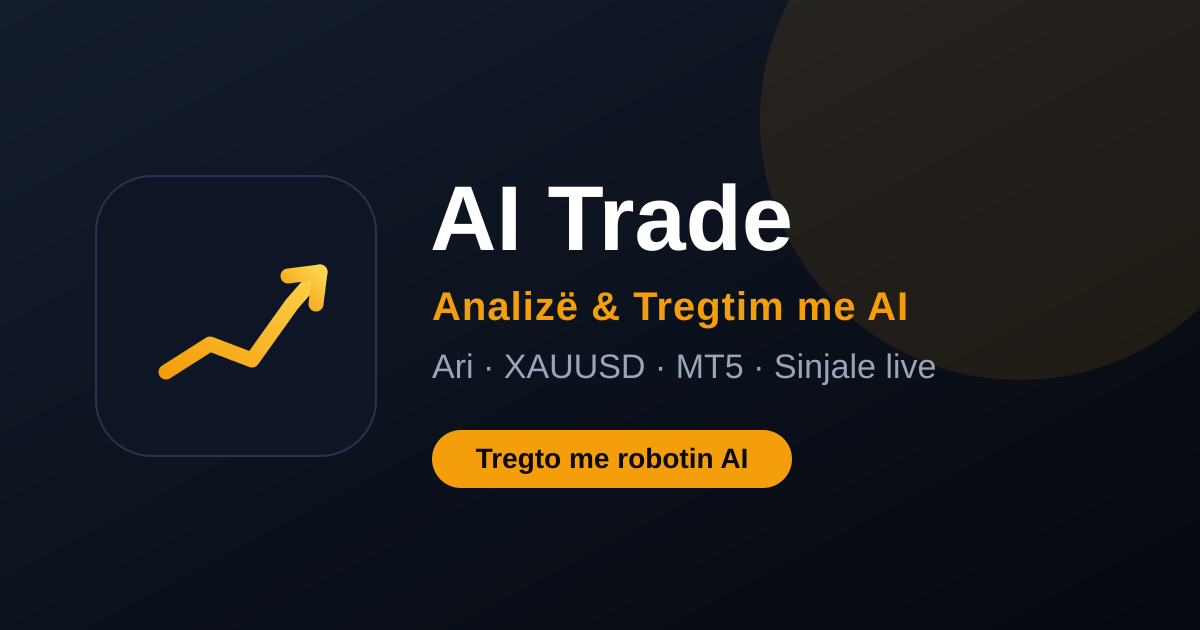
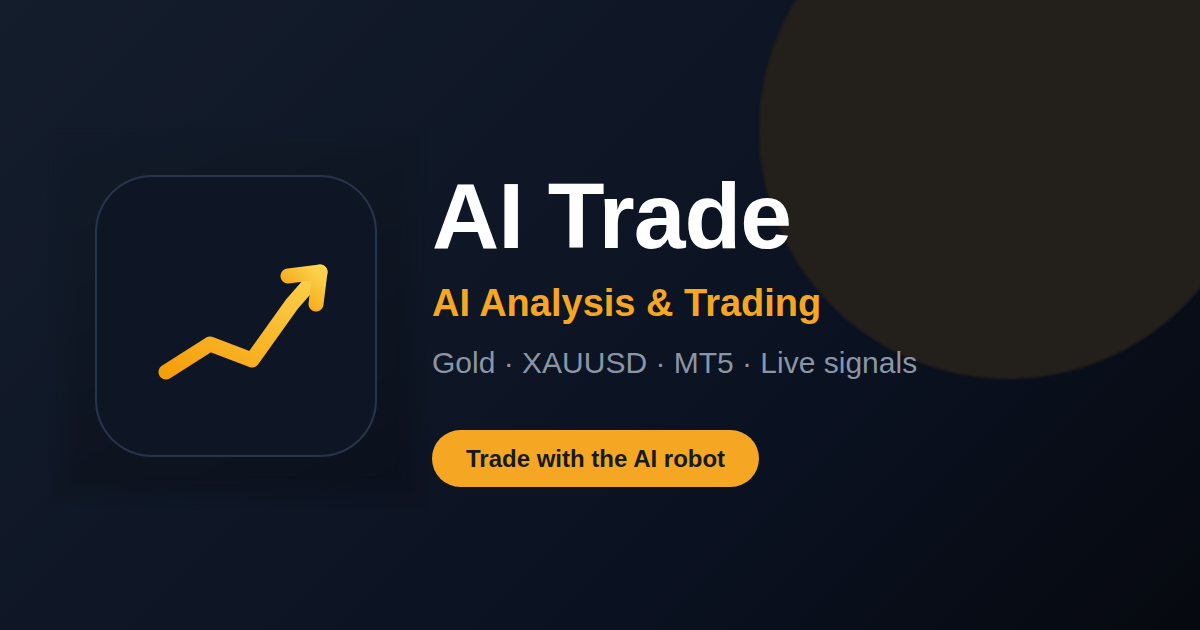
Pamja e ndarjes: teksti brenda figurës në anglisht
Titulli dhe përshkrimi i kartës ishin kthyer në anglisht më herët, por VETË figura
(og-image.png) kishte mbetur shqip: "Analizë & Tregtim me AI", "Ari · XAUUSD · MT5 ·
Sinjale live", "Tregto me robotin AI". Kjo është ajo që sheh njeriu kur linku ndahet
në WhatsApp/Telegram — pra pjesa më e dukshme mbetej e papërkthyer.

LOGOJA NUK U RIVIZATUA. U pre nga vetë figura origjinale dhe u ngjit e paprekur:
ndryshimi te zona e saj (95,175)-(378,458) është 0 pikselë, i matur me krahasim.
Buzët e prerjes u zbutën me tejdukshmëri që kufiri të mos duket.

Sfondi (gradienti + rrethi dekorativ) u rindërtua me CSS sipas matjeve nga origjinali
— jo pjesë e logos, dhe devijimi mbetet nën ~7/255 për kanal mbi ngjyra thuajse të zeza.

'?v=' u ngrit në 3: Telegram-i dhe WhatsApp-i e ruajnë figurën gjatë, ndaj pa këtë
do të vazhdonin ta shfaqnin të vjetrën.

Shënim: figura ende thotë "AI Trade", emri i vjetër. Karta poshtë saj thotë
"GoldSniperFX". Nuk e ndryshova vetë — është vendim marke, jo përkthim.

Claude-Session: https://claude.ai/code/session_012U5q8EG914uAb2YnUcQQBs

diff --git a/index.html b/index.html
@@ -28,8 +28,8 @@
     <meta property="og:title" content="GoldSniperFX — Telegram Trading Platform with Smart Robot" />
     <meta property="og:description" content="Live gold (XAUUSD) signals sent straight to Telegram and executed automatically on MetaTrader 5, with stop-loss, take-profit and risk protection handled by the robot." />
     <meta property="og:url" content="https://www.goldsniper.vip/" />
-    <meta property="og:image" content="https://www.goldsniper.vip/og-image.png?v=2" />
-    <meta property="og:image:secure_url" content="https://www.goldsniper.vip/og-image.png?v=2" />
+    <meta property="og:image" content="https://www.goldsniper.vip/og-image.png?v=3" />
+    <meta property="og:image:secure_url" content="https://www.goldsniper.vip/og-image.png?v=3" />
     <meta property="og:image:type" content="image/png" />
     <meta property="og:image:width" content="1200" />
     <meta property="og:image:height" content="630" />
@@ -37,7 +37,7 @@
     <meta name="twitter:card" content="summary_large_image" />
     <meta name="twitter:title" content="GoldSniperFX — Telegram Trading Platform with Smart Robot" />
     <meta name="twitter:description" content="Live gold (XAUUSD) signals sent straight to Telegram and executed automatically on MetaTrader 5, with risk protection handled by the robot." />
-    <meta name="twitter:image" content="https://www.goldsniper.vip/og-image.png?v=2" />
+    <meta name="twitter:image" content="https://www.goldsniper.vip/og-image.png?v=3" />
   </head>
   <body>
     <div id="root"></div>
